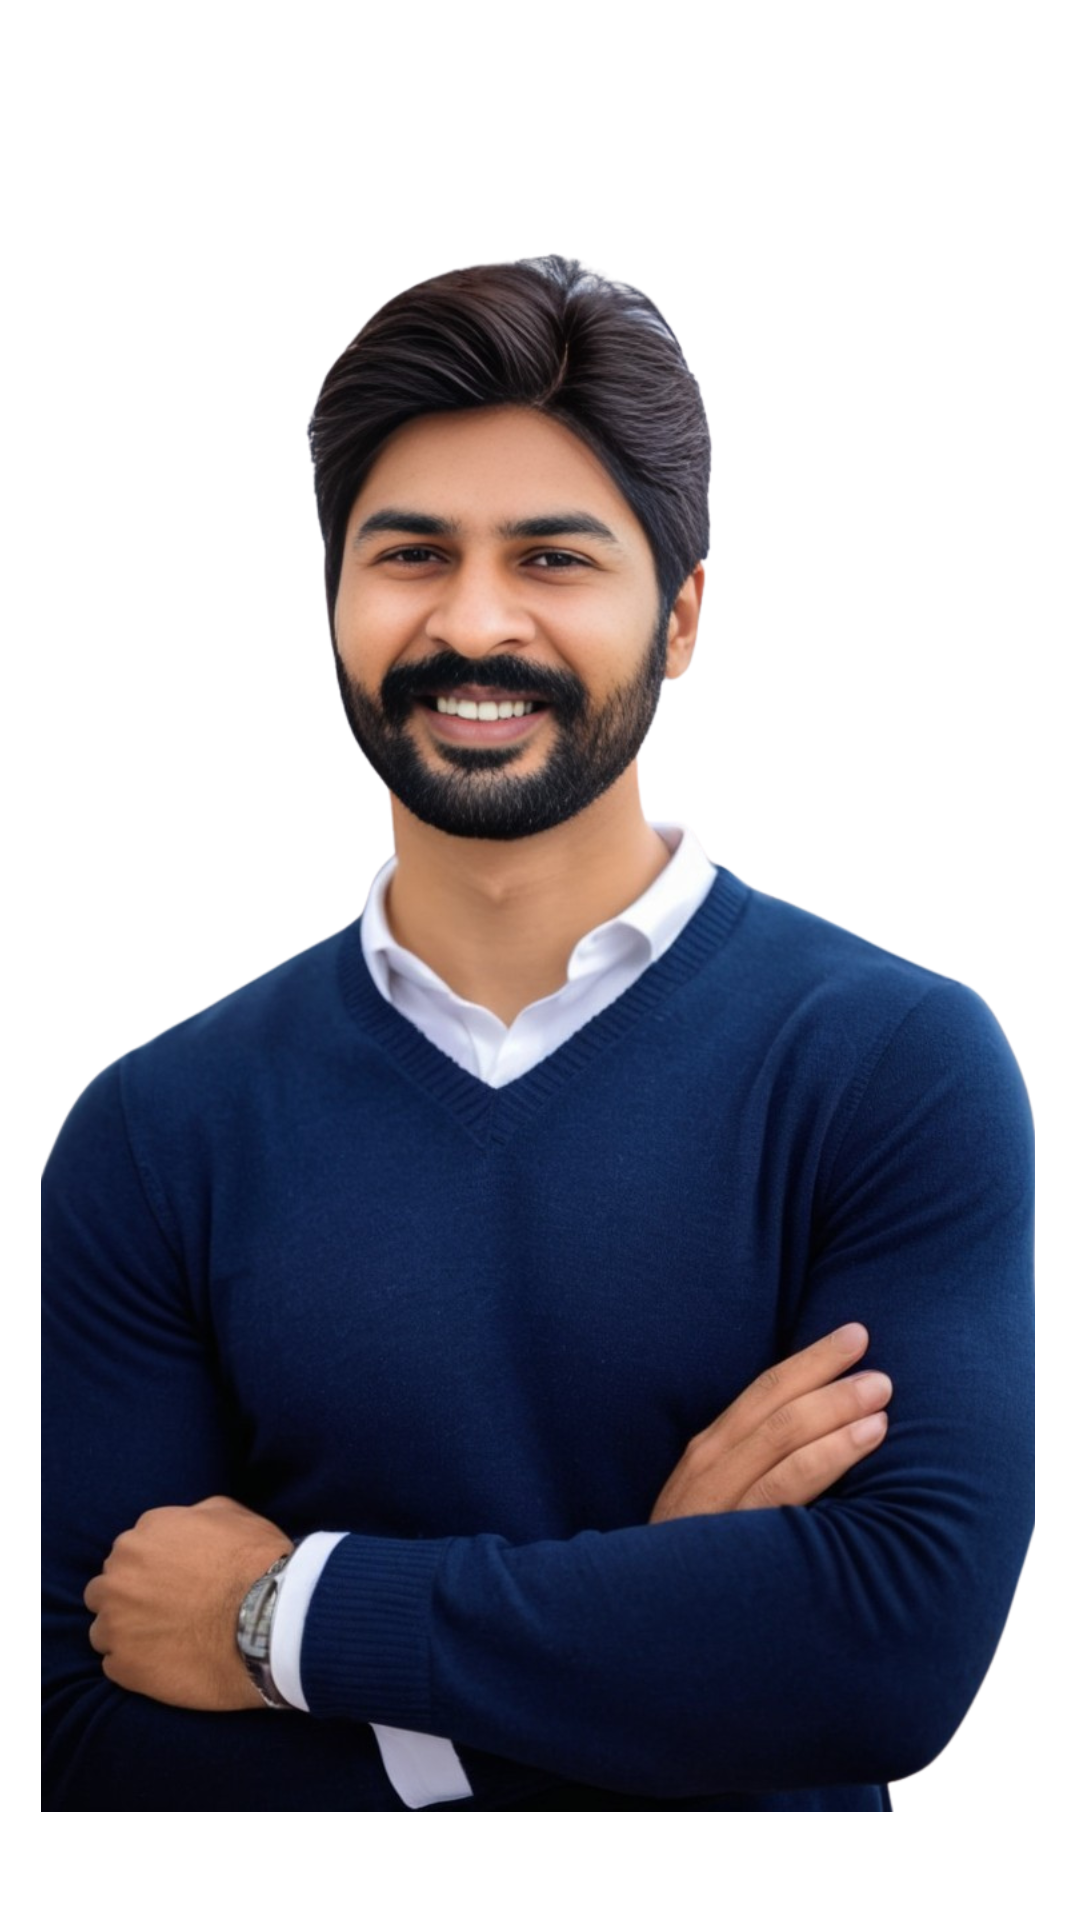
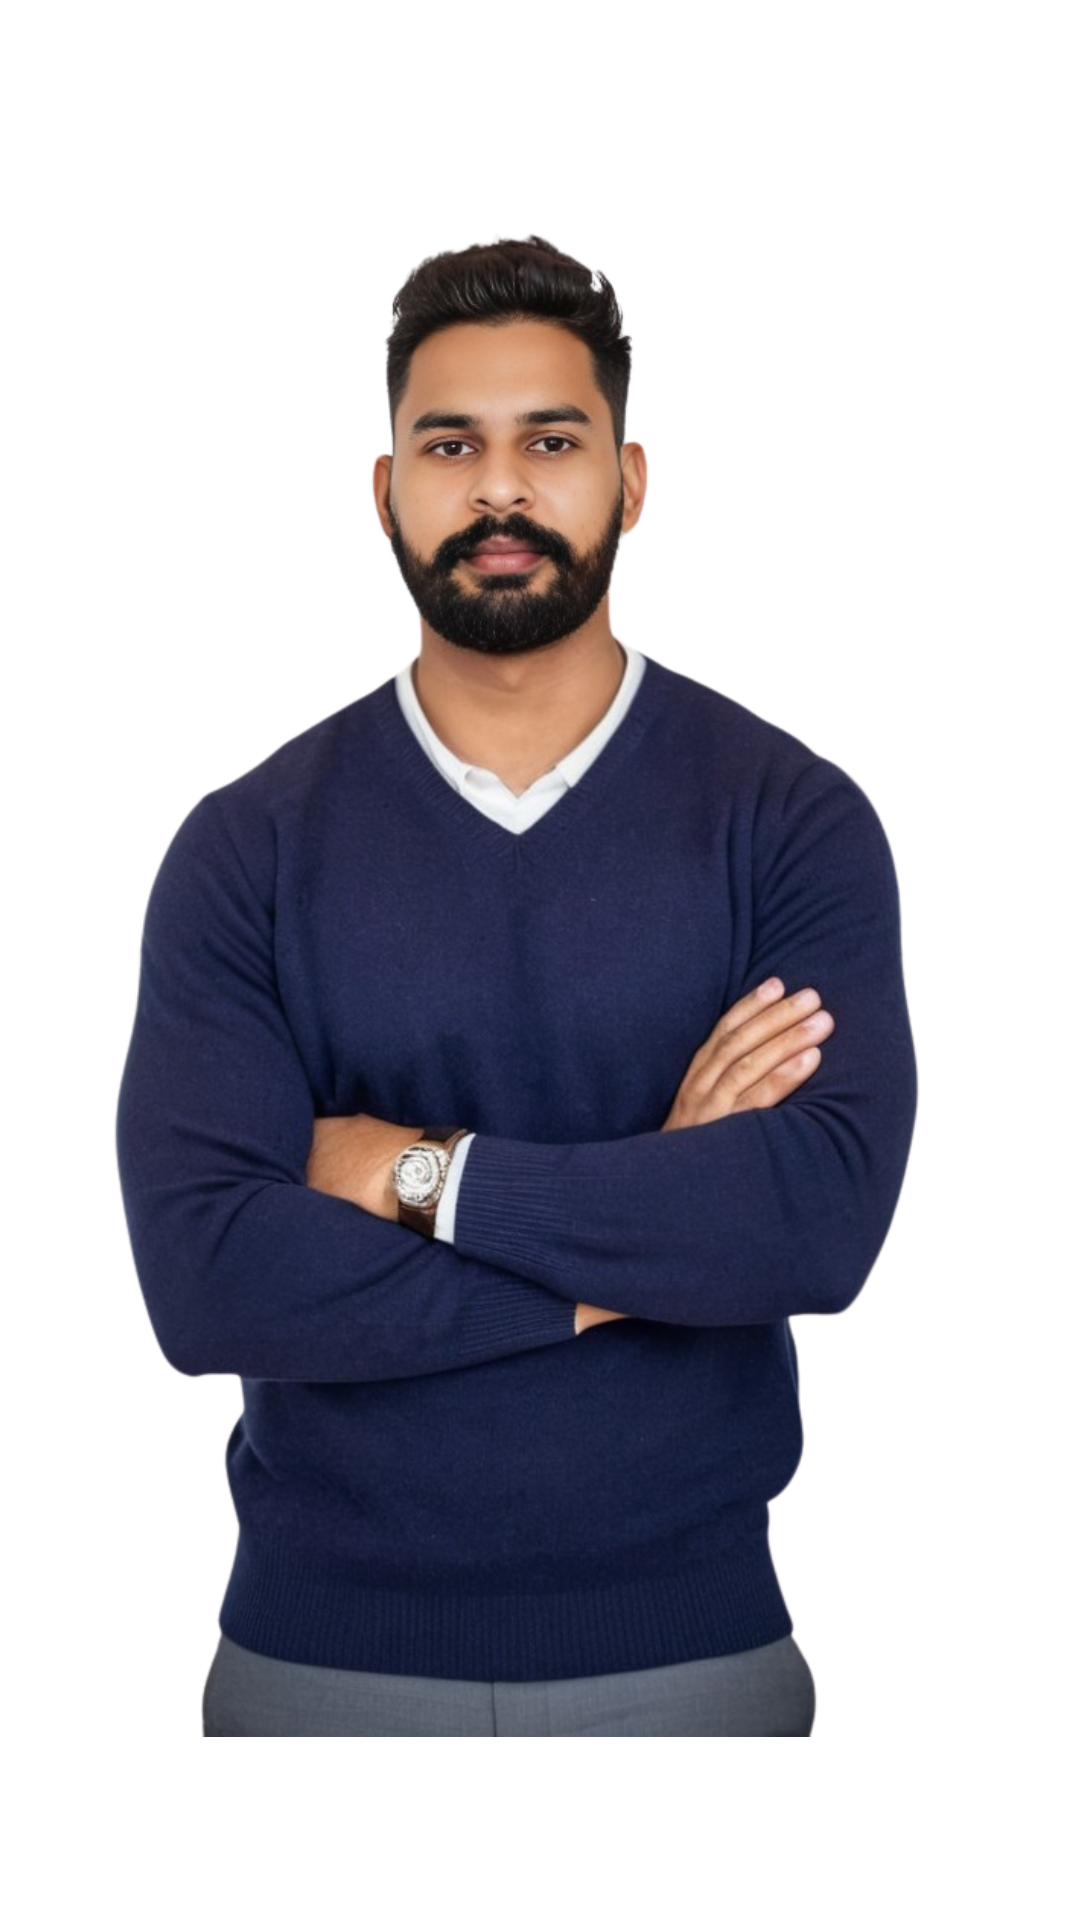
added new coach

diff --git a/seeders/coaches.ts b/seeders/coaches.ts
@@ -62,7 +62,15 @@ const coaches: CoachType[] = [
         calendarLink: "https://calendly.com",
         programIds: ["yoga.online-personal-yoga-classes", "yoga.online-group-yoga-classes", "yoga.in-home-personal-yoga-classes", "yoga.in-home-group-yoga-classes", "yoga.yoga-plan"],
         calendlyToken: 'eyJraWQiOiIxY2UxZTEzNjE3ZGNmNzY2YjNjZWJjY2Y4ZGM1YmFmYThhNjVlNjg0MDIzZjdjMzJiZTgzNDliMjM4MDEzNWI0IiwidHlwIjoiUEFUIiwiYWxnIjoiRVMyNTYifQ.eyJpc3MiOiJodHRwczovL2F1dGguY2FsZW5kbHkuY29tIiwiaWF0IjoxNzI1OTY1MjEwLCJqdGkiOiIzY2Y3NWY4MS05YTQ2LTQzYWEtOTdiNi1jOWU4MDYzN2Q5NmIiLCJ1c2VyX3V1aWQiOiI2YzI0Yjk1Yy02ZDBiLTRlYTAtOGFkMC04MzVlODEwM2NmNGUifQ.EIdHcelUl04Y5gl3XOLQ3LmuffSHCoyM1vx6nHn-a3OjYNOnS4NBln0YKFoK8iPYqeKjJ5MuARiRtNU7Y6ASCw'
-    }
+    },
+    {
+        name: "Ashif Khan",
+        email: 'gaggisidhugaggi95@gmail.com',
+        profileImage: "/assets/coach_ashif.png",
+        calendarLink: "https://calendly.com",
+        programIds: ["online-gym-training.cardio", "online-gym-training.posture-correction", "online-gym-training.workout-plan", "in-home-training.in-home-fitness"],
+        calendlyToken: 'eyJraWQiOiIxY2UxZTEzNjE3ZGNmNzY2YjNjZWJjY2Y4ZGM1YmFmYThhNjVlNjg0MDIzZjdjMzJiZTgzNDliMjM4MDEzNWI0IiwidHlwIjoiUEFUIiwiYWxnIjoiRVMyNTYifQ.eyJpc3MiOiJodHRwczovL2F1dGguY2FsZW5kbHkuY29tIiwiaWF0IjoxNzI1OTY1MjEwLCJqdGkiOiIzY2Y3NWY4MS05YTQ2LTQzYWEtOTdiNi1jOWU4MDYzN2Q5NmIiLCJ1c2VyX3V1aWQiOiI2YzI0Yjk1Yy02ZDBiLTRlYTAtOGFkMC04MzVlODEwM2NmNGUifQ.EIdHcelUl04Y5gl3XOLQ3LmuffSHCoyM1vx6nHn-a3OjYNOnS4NBln0YKFoK8iPYqeKjJ5MuARiRtNU7Y6ASCw'
+    },
 ]
 
 async function seedCoaches() {

diff --git a/src/components/home/Coaches.tsx b/src/components/home/Coaches.tsx
@@ -6,6 +6,7 @@ import { Swiper, SwiperSlide } from "swiper/react";
 
 // Import Assets
 import coach_arpandeep_singh from "@/assets/coach_arpandeep_singh.png";
+import coach_ashif from "@/assets/coach_ashif.png";
 import coach_diksha_parihar from "@/assets/coach_diksha_parihar.png";
 import coach_dinesh_maru from "@/assets/coach_dinesh_maru.png";
 import coach_gurpreet_singh from "@/assets/coach_gurpreet_singh.png";
@@ -19,7 +20,8 @@ const coaches1 = [
   { name: "Harpreet Singh", title: "Personal Trainer", image: coach_harpreet_singh },
   { name: "Dinesh Maru", title: "Dance", image: coach_dinesh_maru },
   { name: "Arpandeep Singh", title: "Personal Trainer", image: coach_arpandeep_singh },
-  { name: "Prachi Dabas", title: "Yoga", image: coach_prachi_dabas }
+  { name: "Prachi Dabas", title: "Yoga", image: coach_prachi_dabas },
+  { name: "Ashif Khan", title: "Personal Trainer", image: coach_ashif },
 ];
 
 // ===================== {Coach} =====================
